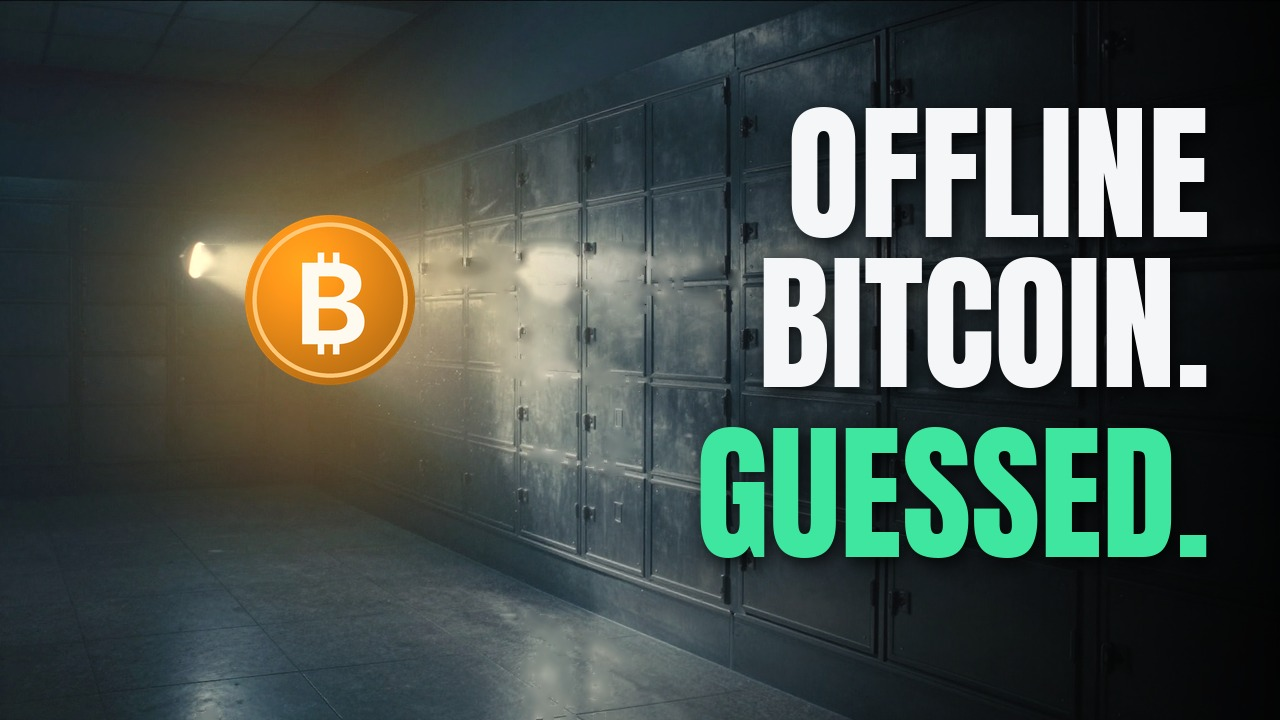
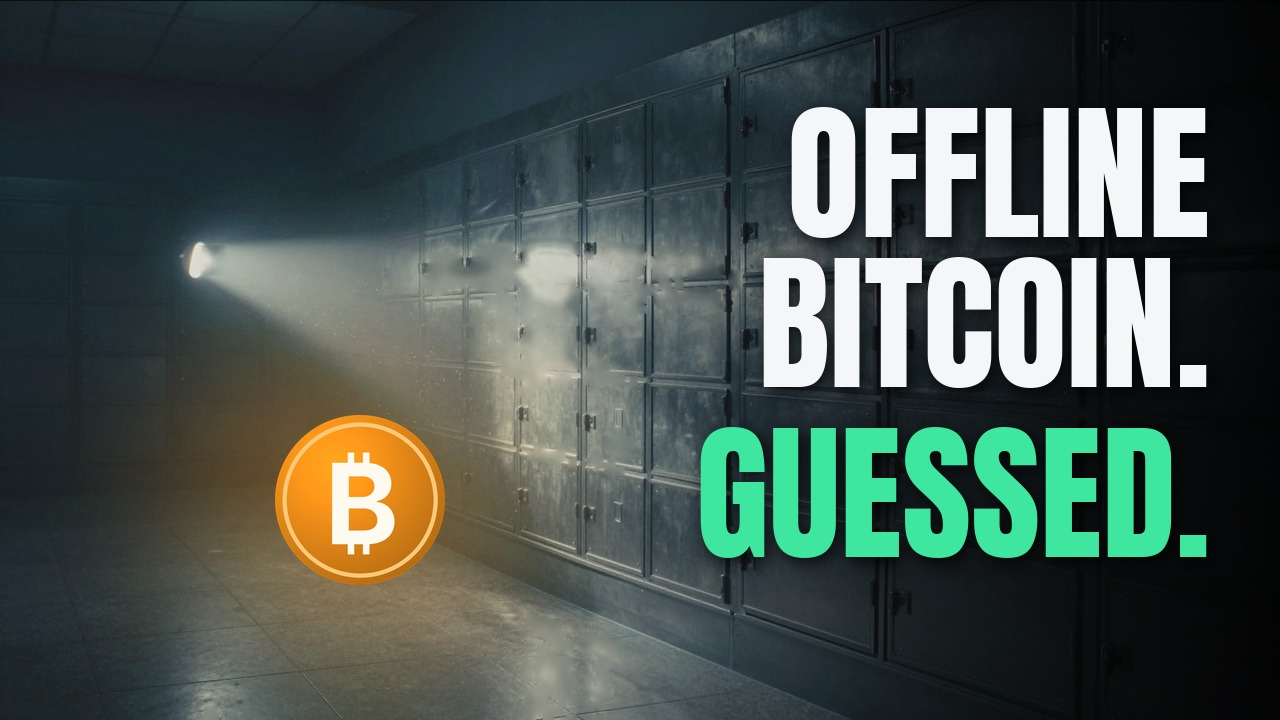
ep003 thumbnail B: coin moved out of the lamp beam
Claude-Session: https://claude.ai/code/session_01Ms4JQ4uQ9dJwE3j5qmHnHV

Changed region(s): [[0.0625, 0.0917, 0.4375, 0.55], [0.125, 0.5806, 0.4688, 1.0]]

diff --git a/thumbnails/make_ep003_options.py b/thumbnails/make_ep003_options.py
@@ -107,9 +107,9 @@ def option_b():
     """Empty vault at night + coin in the light beam + text right."""
     im = base("c01_vault_night", dark=0.05)
     im = side_shade(im, "right", 0.85, 0.6)
-    im = glow_under(im, 330, 300, 85, strength=0.7)
+    im = glow_under(im, 360, 500, 85, strength=0.6)
     c = coin(85)
-    im.paste(c, (330 - 85, 300 - 85), c)
+    im.paste(c, (360 - 85, 500 - 85), c)
     return text_block(im, W - 70, 60, [("OFFLINE", 150, WHITE, 0), ("BITCOIN.", 150, WHITE, 150),
                                          ("GUESSED.", 150, GREEN, 320)], anchor="ra")
 
